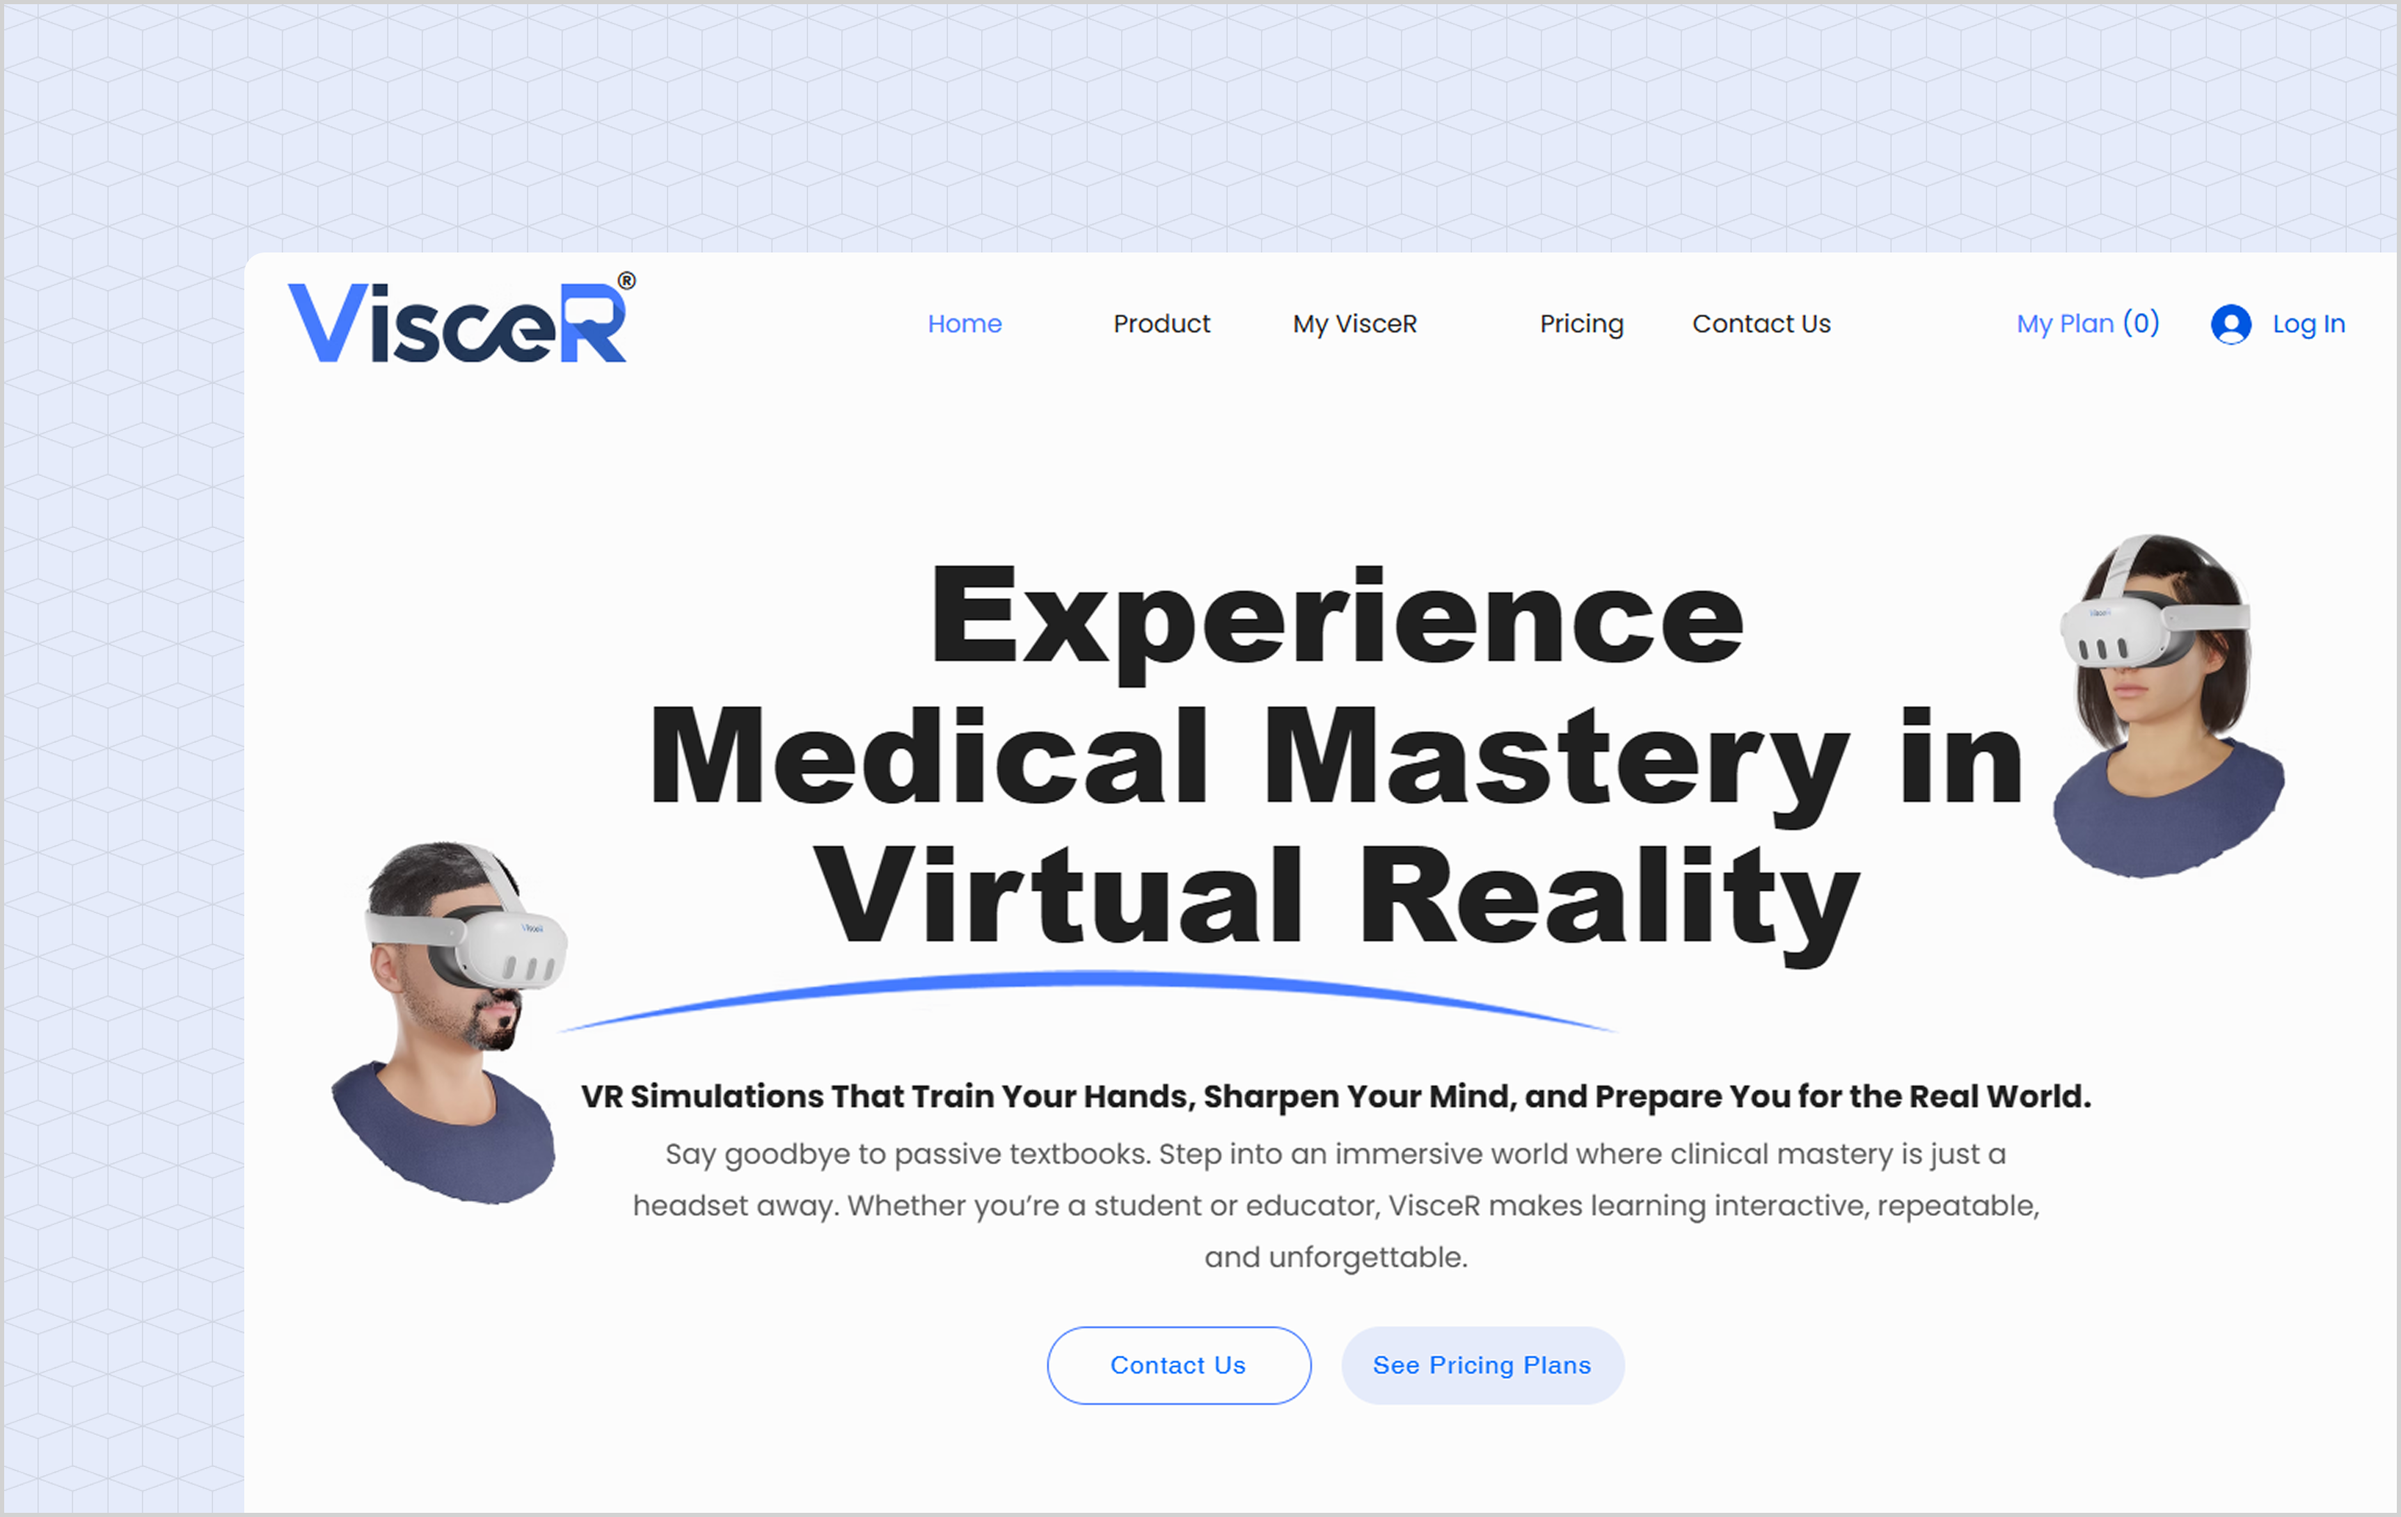
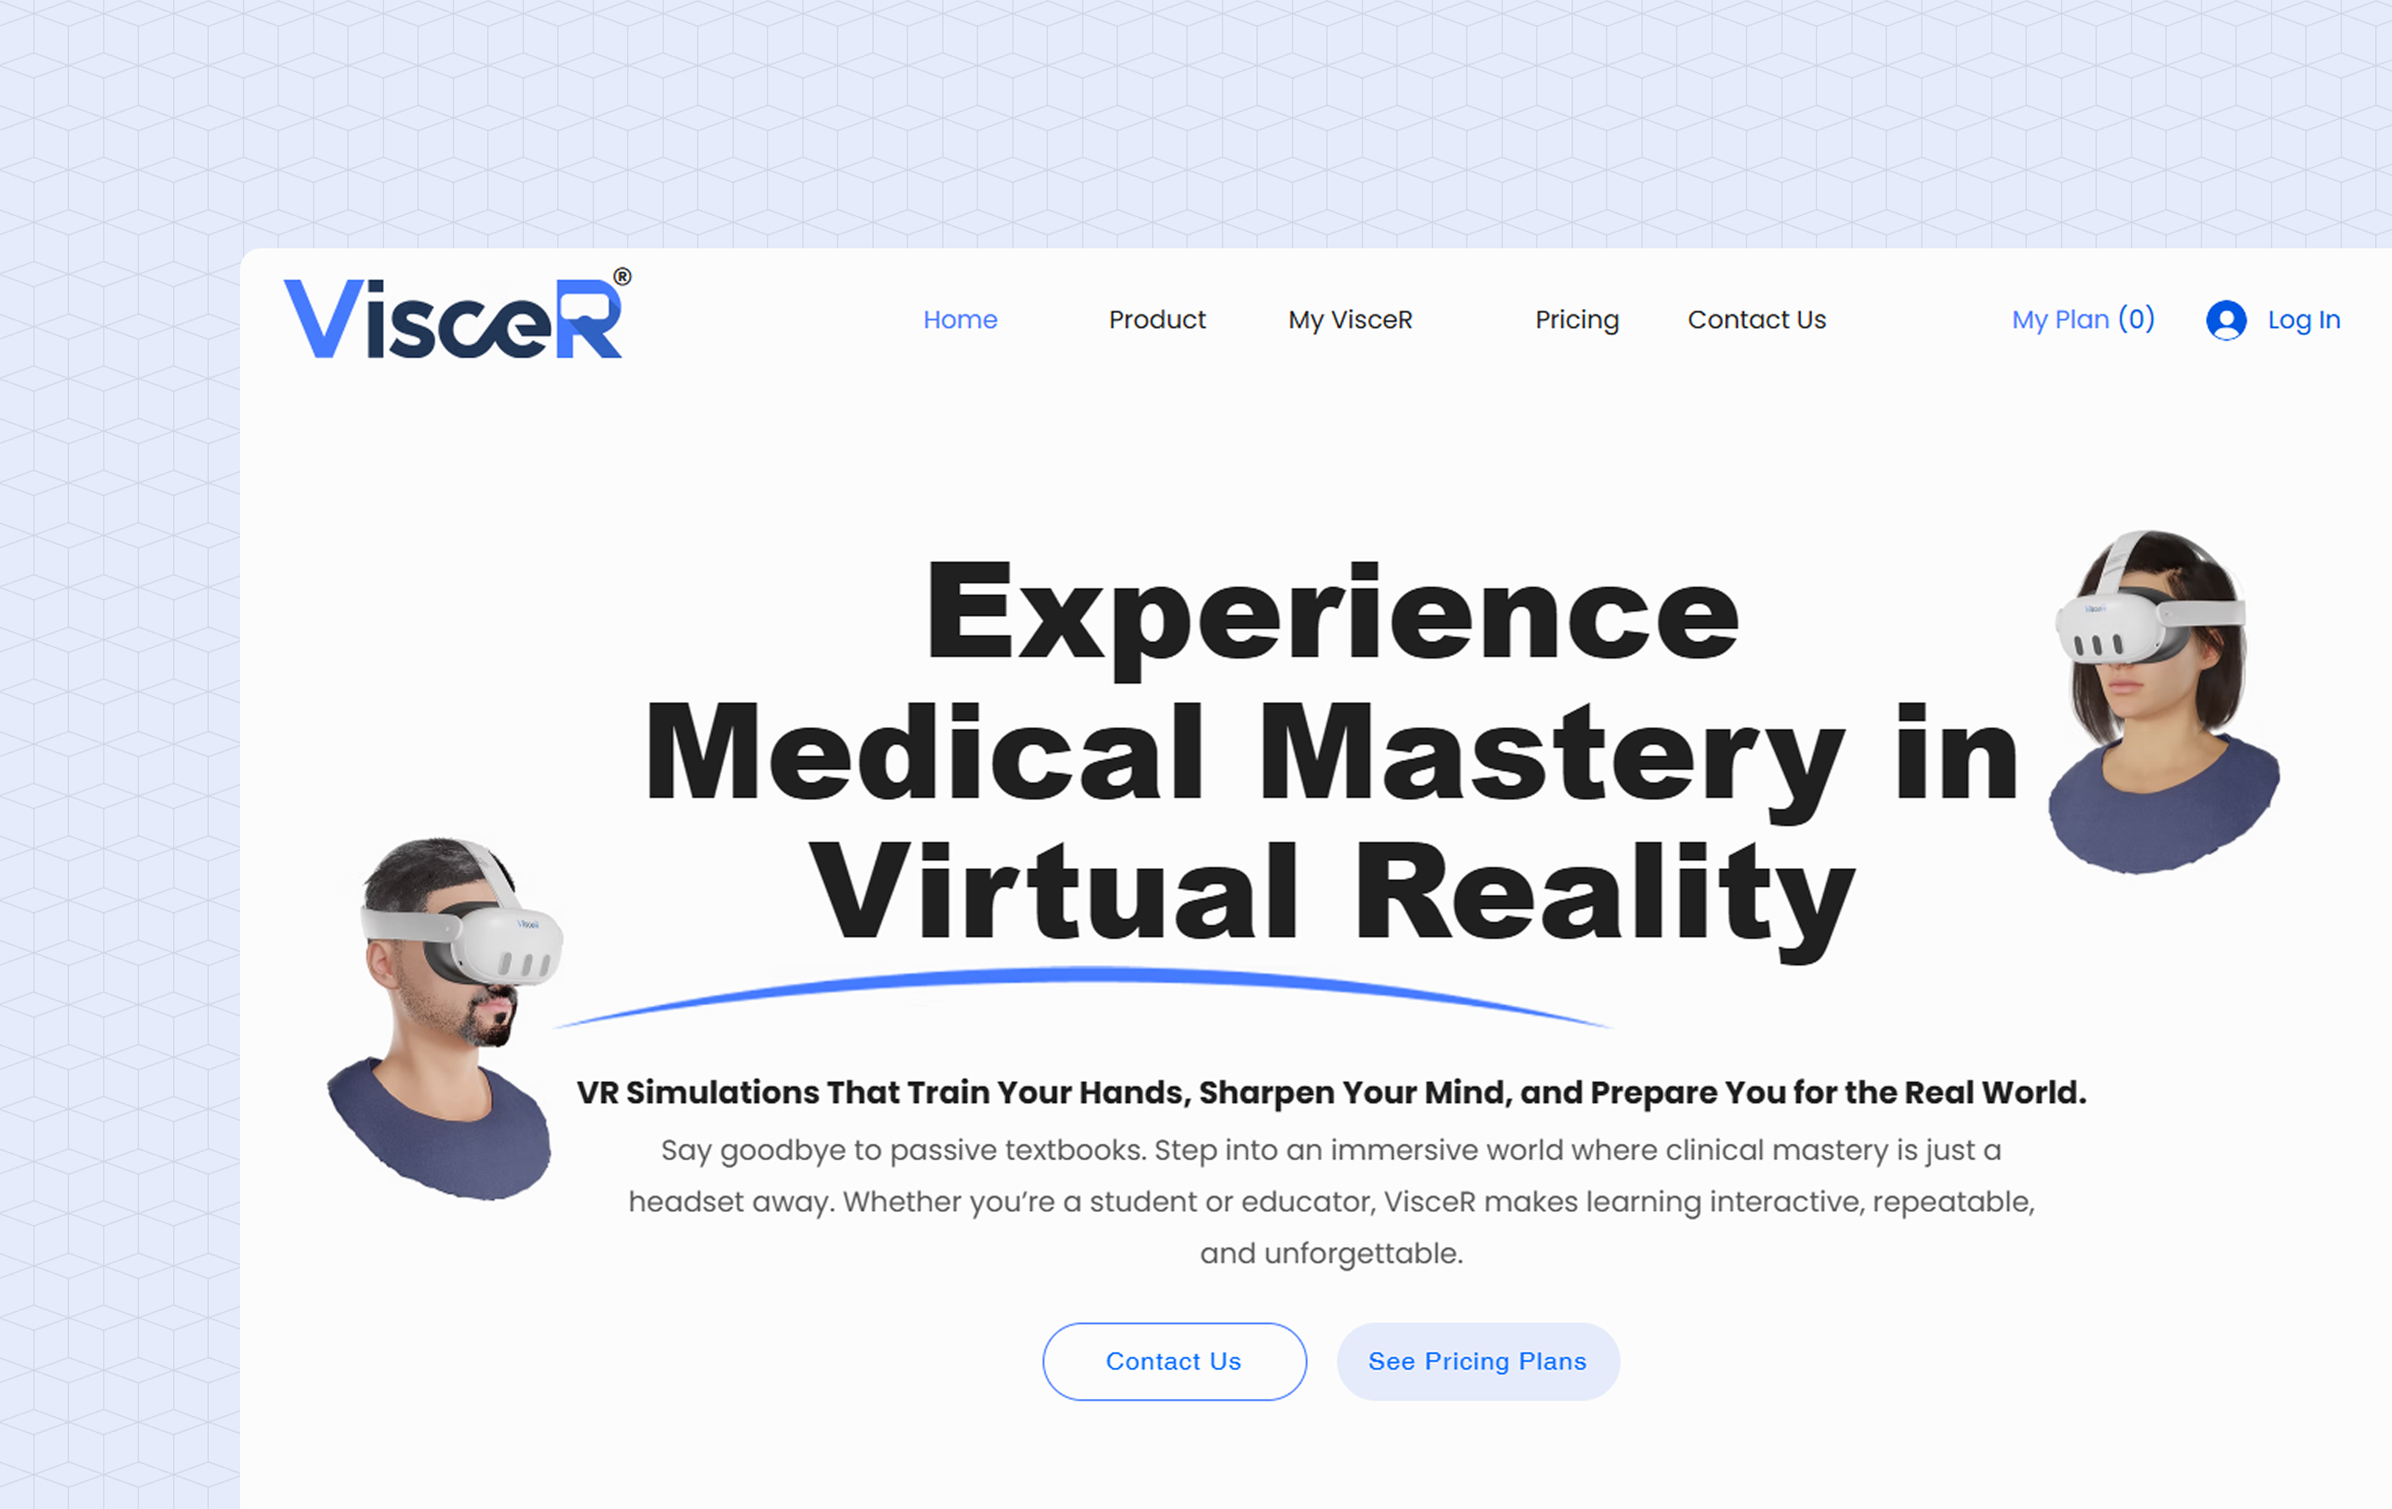
updating

diff --git a/style.css b/style.css
@@ -30,8 +30,8 @@ body {
    NAVBAR
 --------------------- */
 .navbar {
-  max-width: 1200px;
-  margin: 0 auto;
+
+  margin: 0 20px auto;
   padding: 24px 20px;
 
   display: flex;
@@ -85,8 +85,8 @@ body {
    HERO SECTION
 --------------------- */
 .hero {
-  max-width: 1200px;
-  margin: 0 auto;
+  
+  margin: 0 20px auto;
   padding: 80px 20px 120px;
 }
 
@@ -98,7 +98,7 @@ body {
   display: flex;
   align-items: center;
   gap: 10px;
-  margin-bottom: 32px;
+  margin-bottom: 16px;
   color: var(--green);
   font-weight: 500;
 }
@@ -150,14 +150,13 @@ body {
    WORK SECTION
 --------------------- */
 .work-section {
-  max-width: 1200px;
-  margin: 0 auto;
-  padding: 120px 20px;
+  margin: 0 20px auto;
+  padding: 80px 20px;
 }
 
 .work-item {
-  max-width: 900px;
-  margin-bottom: 140px;
+  max-width: 800px;
+  margin-bottom: 100px;
 }
 
 /* Year */
@@ -185,16 +184,24 @@ body {
   max-width: 700px;
   margin-bottom: 32px;
 }
+.work-item:last-child {
+  margin-bottom: 0;
+}
 
-/* Image */
+/* Image 
 .work-image {
   border-radius: 8px;
 }
-
+*/
 .work-image img {
   width: 100%;
   display: block;
-  border-radius: 6px;
+}
+
+.work-image {
+  aspect-ratio: 16 / 10;
+  overflow: hidden;
+  border: 2px solid rgba(0, 0, 0, 0.10); /* subtle stroke */
 }
 
 /* --------------------
@@ -203,7 +210,7 @@ body {
 .reveal {
   opacity: 0;
   transform: translateY(40px);
-  transition: opacity 0.6s ease, transform 0.6s ease;
+  transition: opacity 0.3s ease, transform 0.6s ease;
 }
 
 .reveal.active {
@@ -215,9 +222,9 @@ body {
    ILLUSTRATION SECTION
 --------------------- */
 .illustration-section {
-  max-width: 1200px;
-  margin: 0 auto;
-  padding: 120px 20px;
+  margin: 0 20px auto;
+padding: 20px;
+
 }
 
 /* Heading link */
@@ -262,7 +269,9 @@ body {
 .illustration-grid {
   display: grid;
   grid-template-columns: repeat(2, 1fr);
-  gap: 24px;
+  gap: 10px;
+   max-width: 800px;   /* KEY LINE */
+  margin-top: 40px;
 }
 
 /* Card */
@@ -275,8 +284,12 @@ body {
 
 .illustration-card img {
   width: 100%;
+  height: auto;
   display: block;
 }
+
+
+
 
 /* Subtle hover */
 .illustration-card:hover {
@@ -297,8 +310,7 @@ body {
    FOOTER
 ===================================================== */
 .footer {
-  max-width: 1200px;
-  margin: 0 auto;
+  margin: 0 20px auto;
   padding: 120px 20px 40px;
 }
 

diff --git a/index.html b/index.html
@@ -63,7 +63,7 @@
     </h3>
 
     <p class="description">
-      Worked end-to-end on the Viscer platform — shaping structure,
+      Worked end-to-end on the <u>Viscer</u> platform — shaping structure,
       interaction, and usability to make complex learning feel
       simple and intuitive.
     </p>
